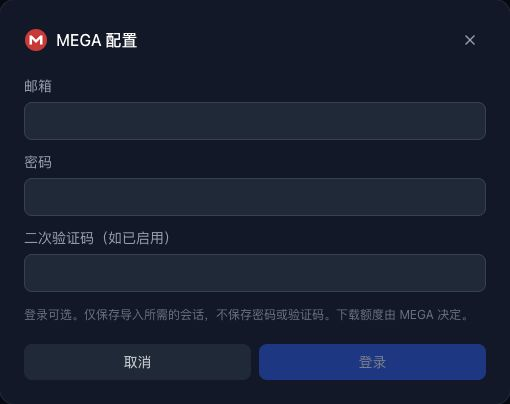
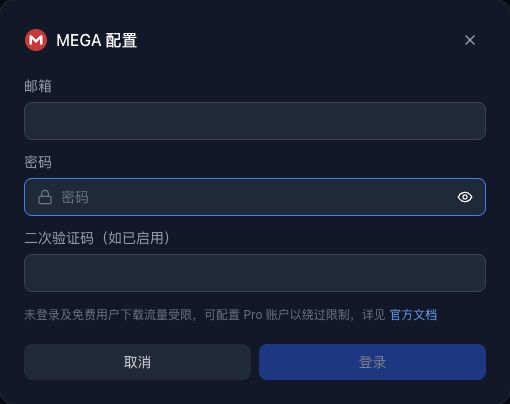
fix(client): refine mega account login form

Changed region(s): [[0.0294, 0.7426, 0.9118, 0.802], [0.0294, 0.4455, 0.9706, 0.5347], [0.0588, 0.4158, 0.9412, 0.4455]]

diff --git a/client/src/components/MegaSettingsDialog.tsx b/client/src/components/MegaSettingsDialog.tsx
@@ -4,7 +4,7 @@ import { Loader2, X } from 'lucide-react';
 import type { MegaSettings } from '../../../shared/types';
 import { fetchMegaSettings, loginMega, logoutMega } from '../api/mega';
 import { ActionRow, Button, IconButton } from './Button';
-import { FormField, TextInput } from './Form';
+import { FormField, PasswordInput, TextInput } from './Form';
 import { MegaIcon } from './ImportSources';
 import Modal from './Modal';
 import { showError, showSuccess } from './Toast';
@@ -46,10 +46,12 @@ export default function MegaSettingsDialog({ onClose, onSaved }: SettingsDialogP
         : <form onSubmit={event => { event.preventDefault(); void save(); }}>
           <div className="flex flex-col gap-3">
             <FormField label="邮箱"><TextInput type="email" autoComplete="username" required maxLength={254} value={email} disabled={busy} onChange={event => setEmail(event.target.value)} /></FormField>
-            <FormField label="密码"><TextInput type="password" autoComplete="current-password" required maxLength={1024} value={password} disabled={busy} onChange={event => setPassword(event.target.value)} /></FormField>
+            <FormField label="密码"><PasswordInput autoComplete="current-password" required maxLength={1024} value={password} disabled={busy} onChange={setPassword} /></FormField>
             <FormField label="二次验证码（如已启用）"><TextInput inputMode="numeric" autoComplete="one-time-code" pattern="[0-9]{6}" maxLength={6} value={code} disabled={busy} onChange={event => setCode(event.target.value)} /></FormField>
           </div>
-          <p className="mt-3 text-xs leading-5 text-gray-500">登录可选。仅保存导入所需的会话，不保存密码或验证码。下载额度由 MEGA 决定。</p>
+          <p className="mt-3 text-xs leading-5 text-gray-500">未登录及免费用户下载流量受限，可配置 Pro 账户以绕过限制，详见{' '}
+            <a href="https://help.mega.io/zh-hans/plans-storage/space-storage/transfer-quota" target="_blank" rel="noopener noreferrer" className="rounded p-0 leading-[inherit] text-blue-400 transition-colors hover:text-blue-300 focus-visible:outline-2 focus-visible:outline-offset-4 focus-visible:outline-blue-400">官方文档</a>
+          </p>
           <ActionRow className="mt-5">
             <Button disabled={busy} onClick={settings.configured ? () => void save(true) : onClose}>{settings.configured ? '清除登录态' : '取消'}</Button>
             <Button type="submit" variant="primary" disabled={busy || !email.trim() || !password}>{busy ? '处理中…' : '登录'}</Button>

diff --git a/client/src/components/Form.tsx b/client/src/components/Form.tsx
@@ -19,14 +19,15 @@ export function TextInput({ className = '', ...props }: InputHTMLAttributes<HTML
   return <input {...props} className={`${inputClass} ${className}`} />;
 }
 
-export function PasswordInput({ value, onChange, placeholder, disabled = false }: {
-  value: string; onChange: (value: string) => void; placeholder: string; disabled?: boolean;
+export function PasswordInput({ value, onChange, placeholder = '密码', disabled = false, id: inputId, autoComplete = 'off', ...props }: Omit<InputHTMLAttributes<HTMLInputElement>, 'value' | 'onChange' | 'type'> & {
+  value: string; onChange: (value: string) => void;
 }) {
   const [visible, setVisible] = useState(false);
-  const id = useId();
+  const generatedId = useId();
+  const id = inputId ?? generatedId;
   return <div className={`flex items-center gap-2 rounded-lg border border-gray-700 bg-gray-800 px-3 py-2 focus-within:border-blue-500 ${disabled ? 'opacity-50' : ''}`}>
     <Lock size={16} className="shrink-0 text-gray-500" />
-    <input id={id} type={visible ? 'text' : 'password'} autoComplete="off" value={value} disabled={disabled}
+    <input {...props} id={id} type={visible ? 'text' : 'password'} autoComplete={autoComplete} value={value} disabled={disabled}
       onChange={event => onChange(event.target.value)} aria-label={placeholder} placeholder={placeholder}
       className="min-w-0 flex-1 bg-transparent text-sm text-white outline-none placeholder:text-gray-500" />
     <IconButton disabled={disabled} onClick={() => setVisible(!visible)} label={`${visible ? '隐藏' : '显示'}${placeholder}`}
